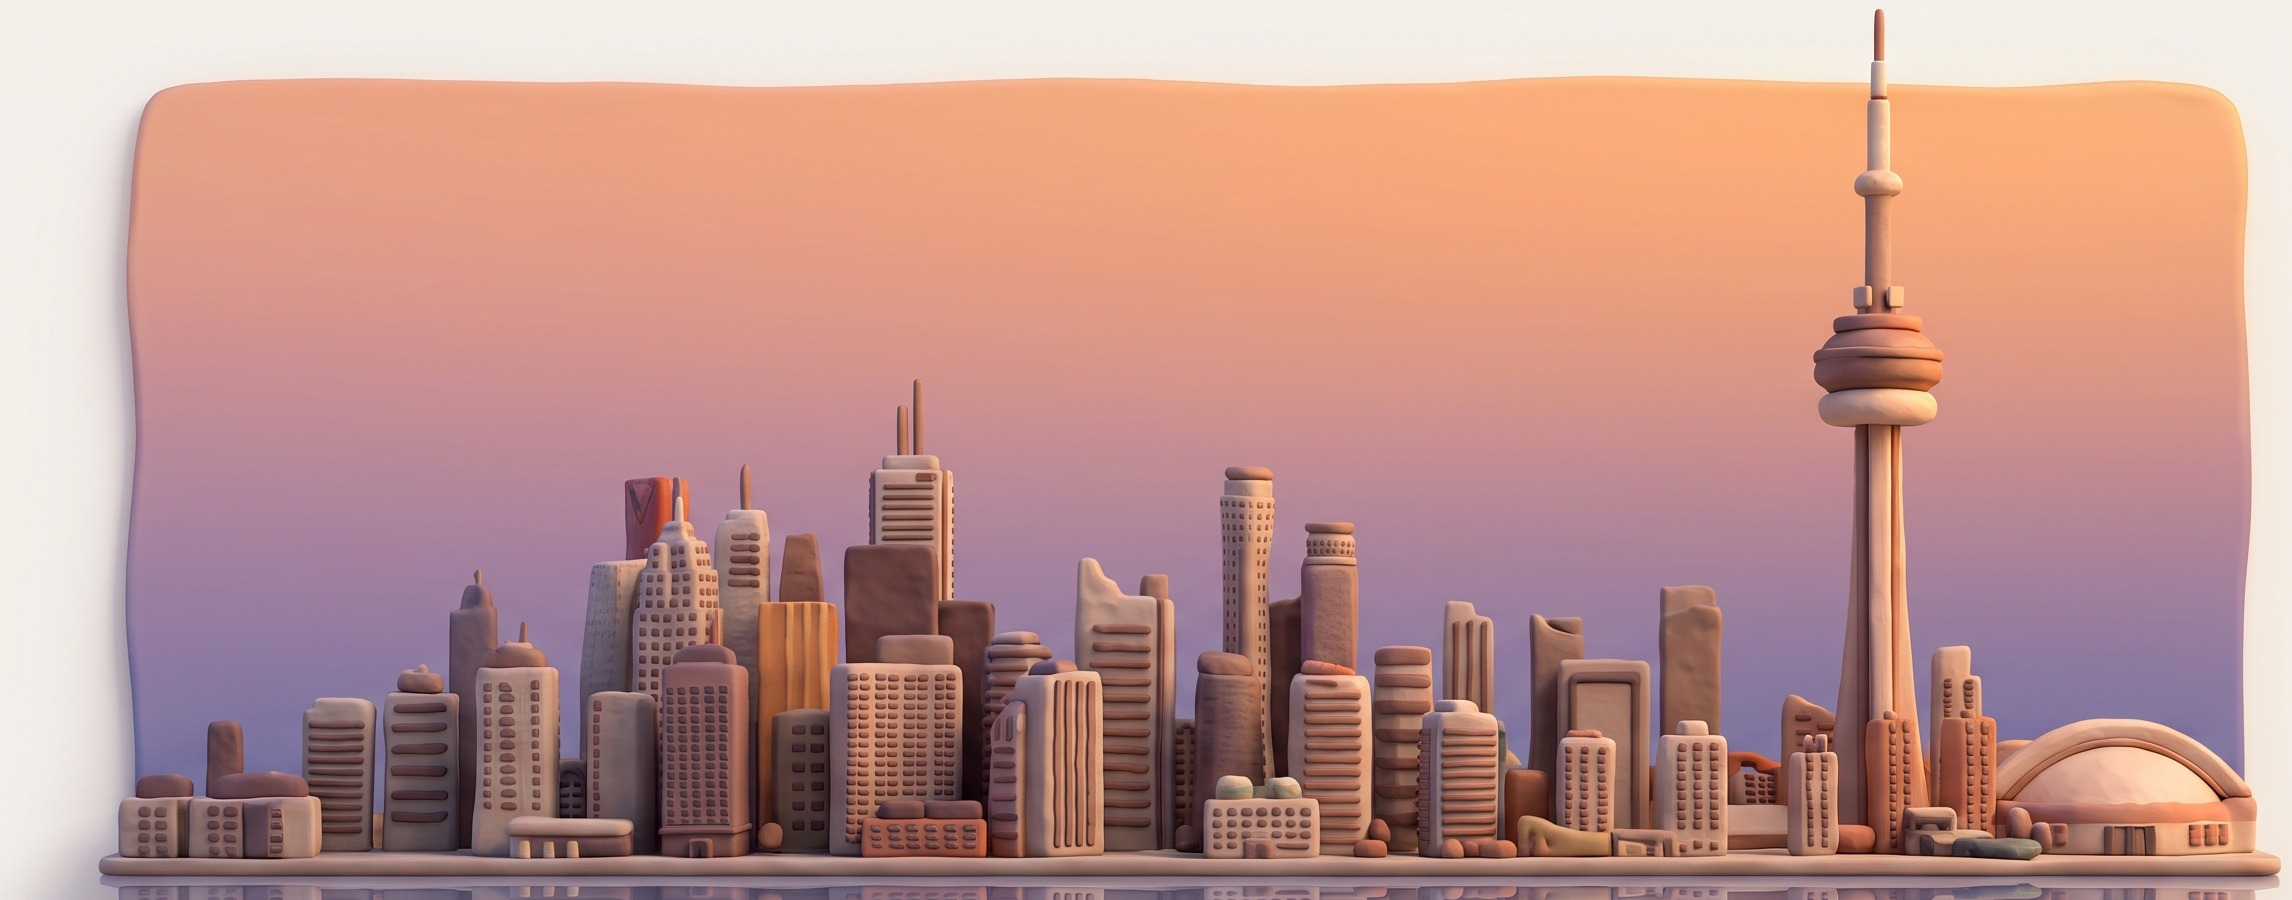
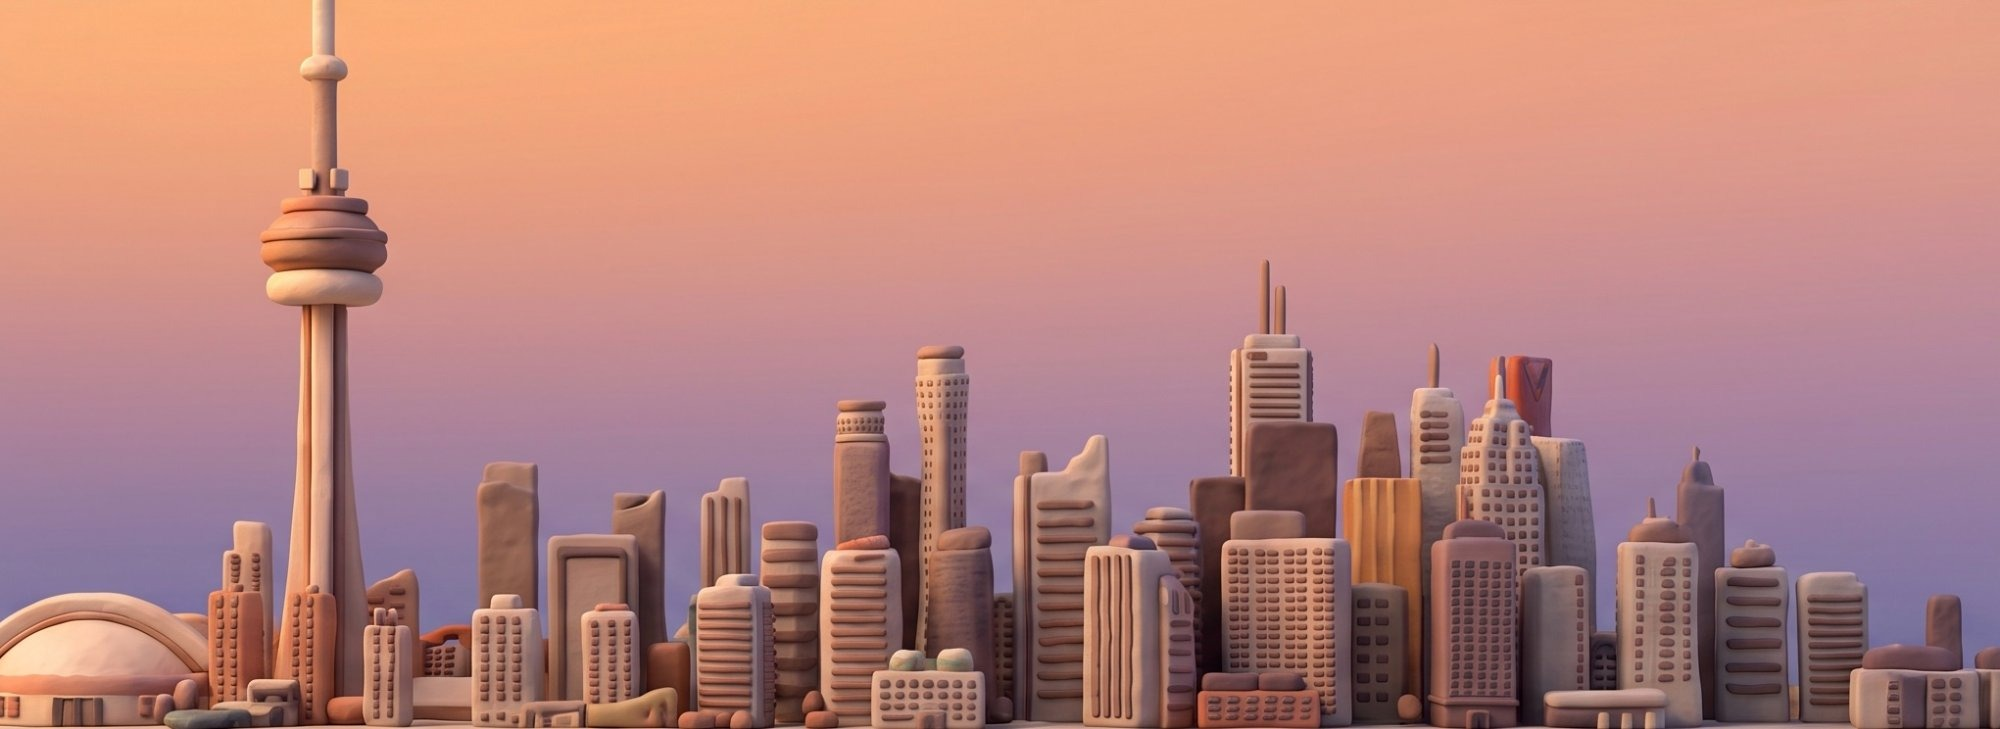
Use provided tight skyline crop, re-tune position and scrim
- Swapped in the precisely-cropped skyline banner (tower top flush with
  the crop edge, no white border, no reflection) for exact alignment.
- background-position moved back to 16% top to match the tower's
  position in this new crop.
- Scrim redone as a left-to-right fade matching the new composition,
  since both the text and the tower now sit on the left.

Claude-Session: https://claude.ai/code/session_01UHgGwNG2XYaaZzS6kEs4cr

diff --git a/index.html b/index.html
@@ -39,7 +39,7 @@
   .wrap { max-width: 1040px; margin: 0 auto; padding: 0 24px; }
 
   header.hero {
-    background: #2E2538 url("assets/img/toronto-skyline.jpg?v=20261006g") 82% top / cover no-repeat;
+    background: #2E2538 url("assets/img/toronto-skyline.jpg?v=20261006h") 16% top / cover no-repeat;
     color: #fff;
     padding: 72px 0 52px;
     position: relative;
@@ -47,7 +47,7 @@
   }
   header.hero .hero-scrim {
     position: absolute; inset: 0; z-index: 0; pointer-events: none;
-    background: linear-gradient(90deg, rgba(20,14,24,0.62) 0%, rgba(20,14,24,0.44) 26%, rgba(20,14,24,0.14) 48%, rgba(20,14,24,0) 62%);
+    background: linear-gradient(90deg, rgba(20,14,24,0.52) 0%, rgba(20,14,24,0.42) 55%, rgba(20,14,24,0.22) 100%);
   }
   header.hero .hero-inner { display: flex; align-items: center; gap: 28px; position: relative; z-index: 1; }
   header.hero .avatar {
